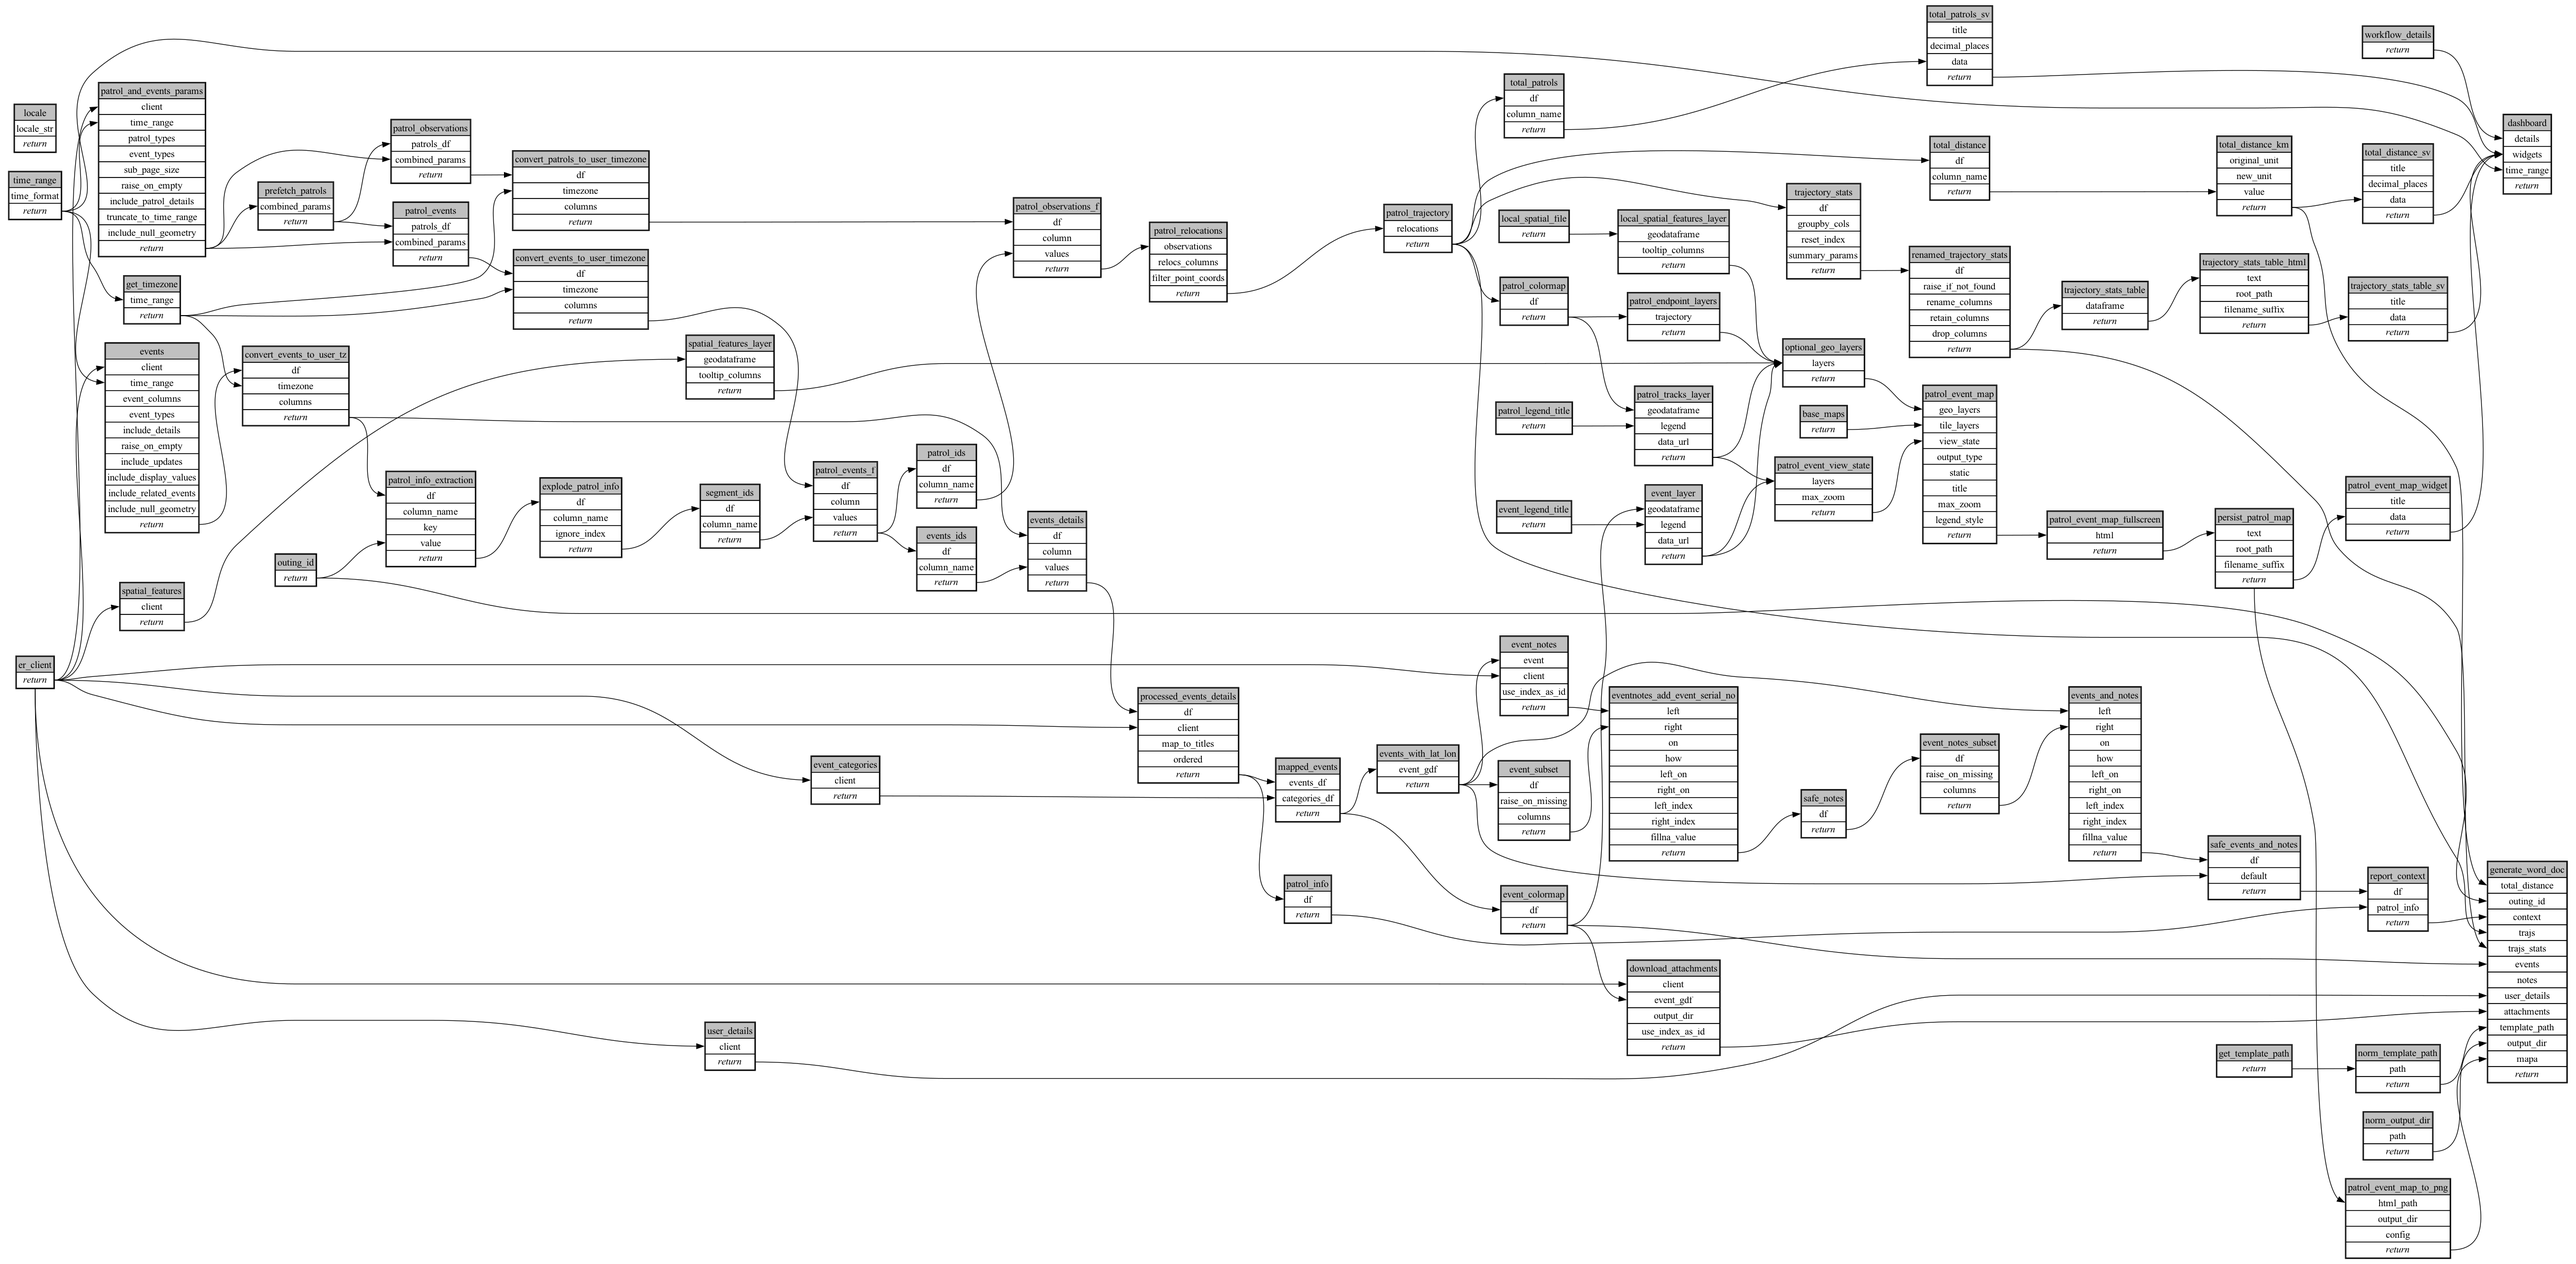
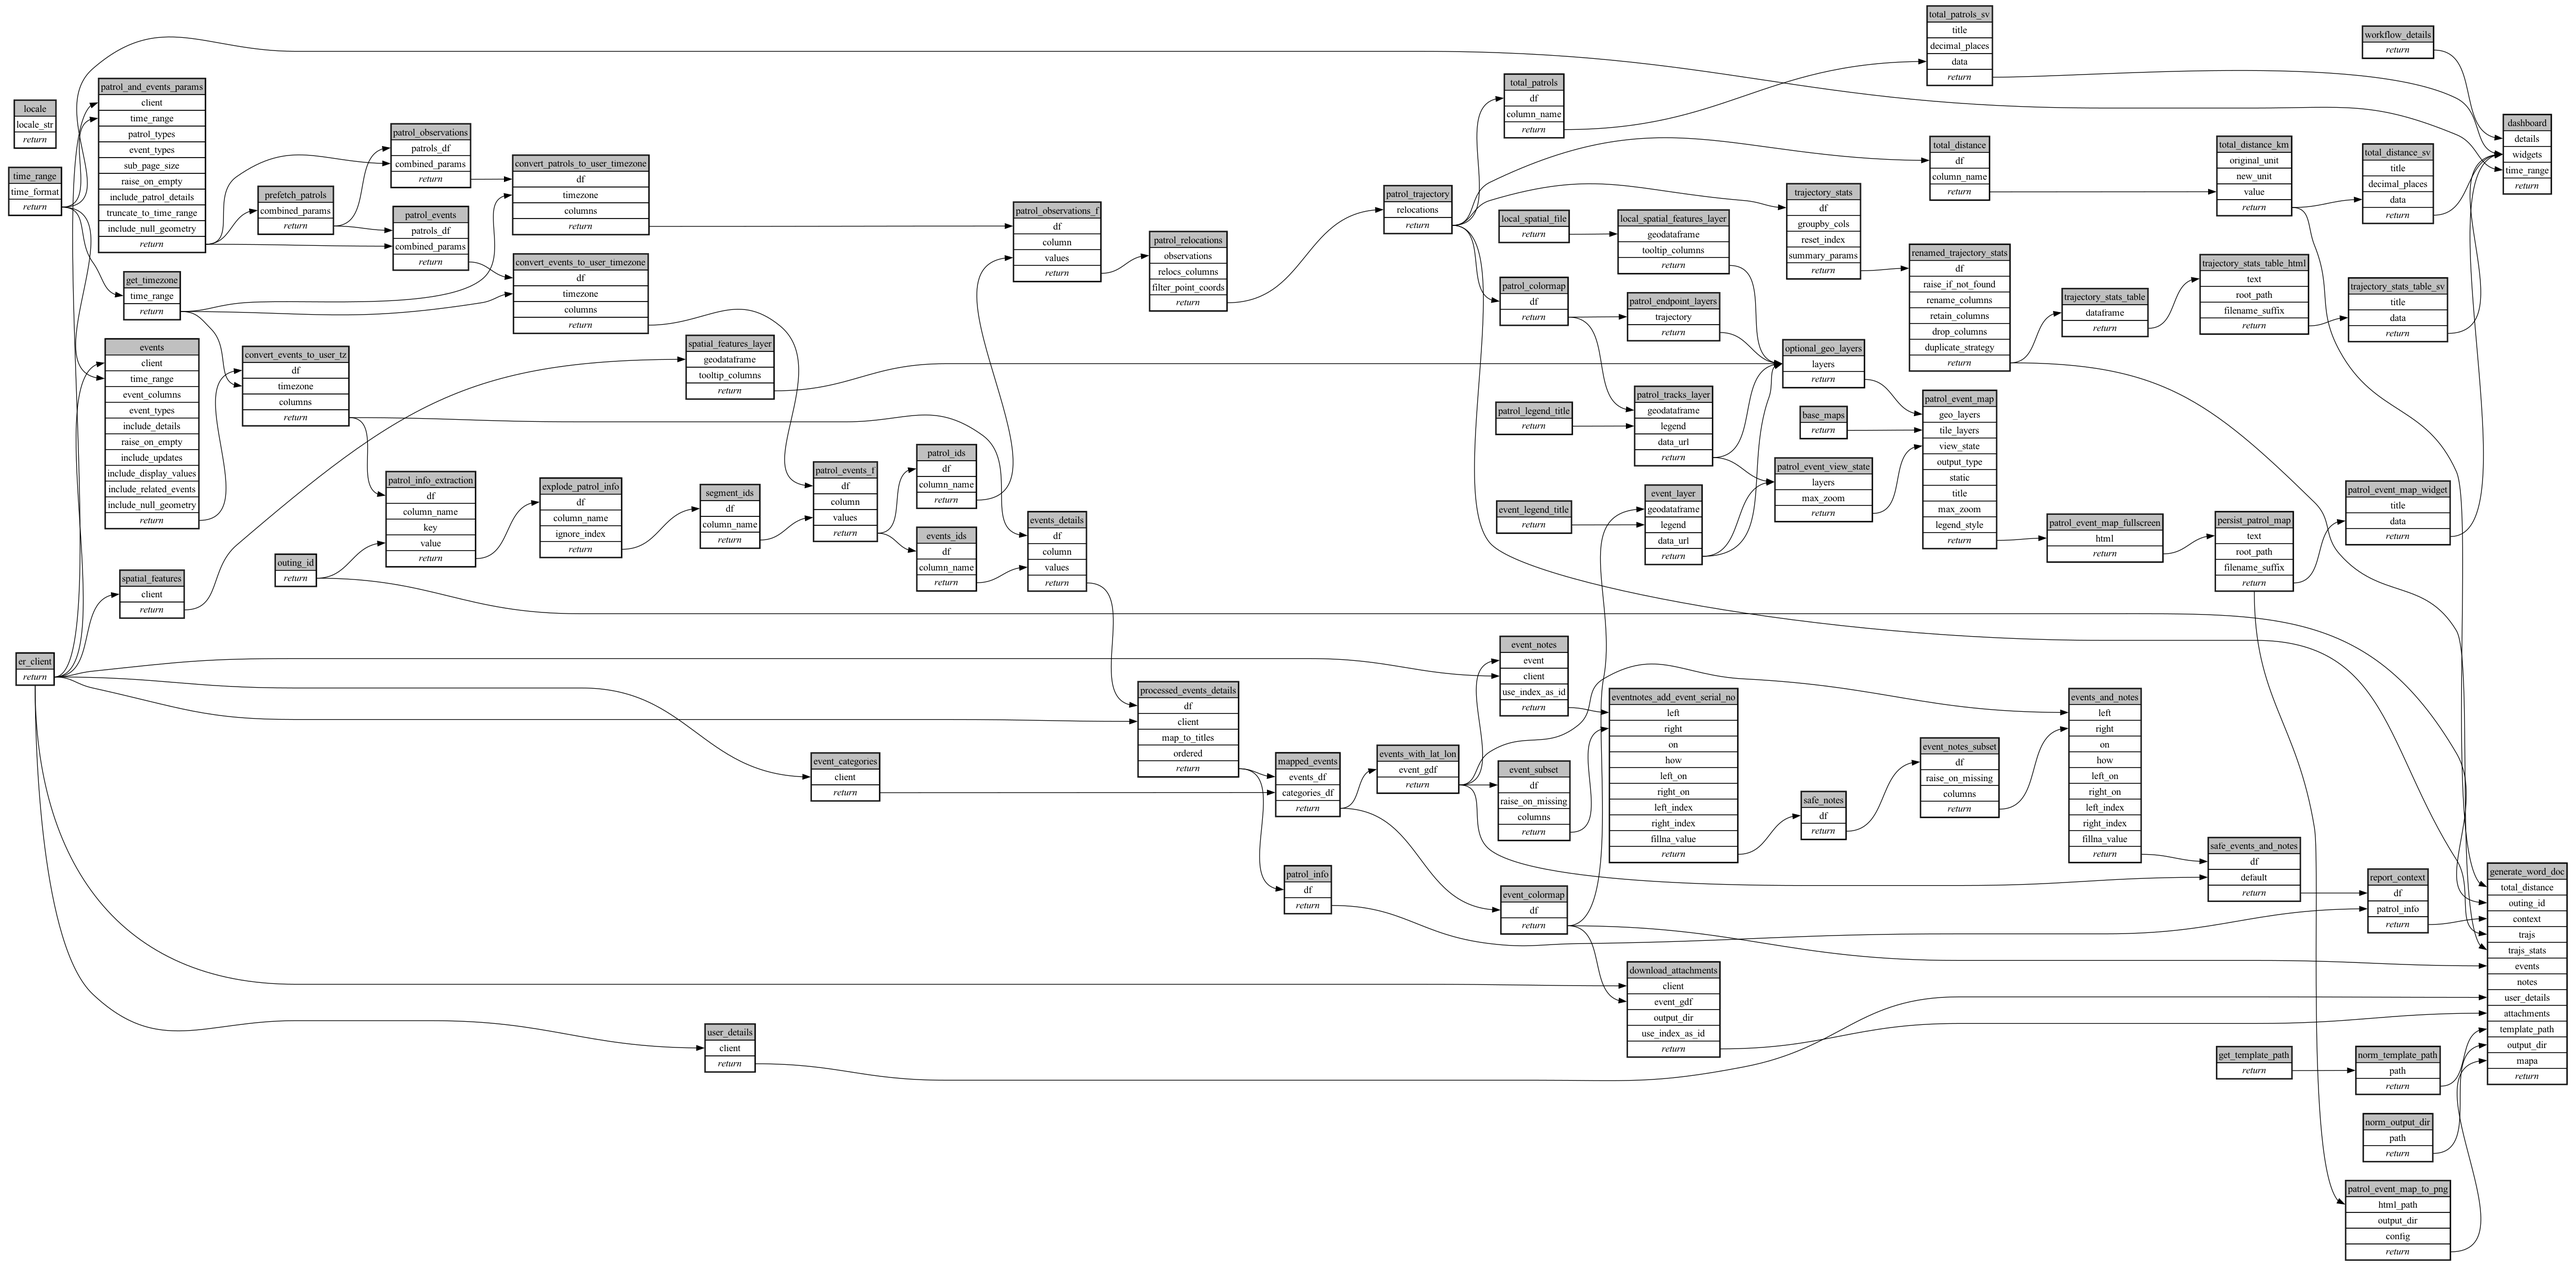
Pin fan_out/duplicate_strategy to task defaults explicitly in spec.yaml

diff --git a/ecoscope-workflows-patrol-event-workflow/ecoscope_workflows_patrol_event_workflow/dags/run_sequential.py b/ecoscope-workflows-patrol-event-workflow/ecoscope_workflows_patrol_event_workflow/dags/run_sequential.py
@@ -748,6 +748,7 @@ def main(params: dict[str, Any], validate_params_schema: bool = True):
             rename_columns={"extra__patrol_serial_number": "ID de Patrulla"},
             retain_columns=None,
             drop_columns=None,
+            duplicate_strategy="suffix",
             **(params.get("renamed_trajectory_stats") or {}),
         )
         .call()

diff --git a/ecoscope-workflows-patrol-event-workflow/ecoscope_workflows_patrol_event_workflow/dags/run_sequential_mock_io.py b/ecoscope-workflows-patrol-event-workflow/ecoscope_workflows_patrol_event_workflow/dags/run_sequential_mock_io.py
@@ -775,6 +775,7 @@ def main(params: dict[str, Any], validate_params_schema: bool = True):
             rename_columns={"extra__patrol_serial_number": "ID de Patrulla"},
             retain_columns=None,
             drop_columns=None,
+            duplicate_strategy="suffix",
             **(params.get("renamed_trajectory_stats") or {}),
         )
         .call()

diff --git a/ecoscope-workflows-patrol-event-workflow/README.md b/ecoscope-workflows-patrol-event-workflow/README.md
@@ -5,8 +5,8 @@
 
 ```yaml
 # fingerprint:
-artifacts_sha256_basic: 9b2e45a3ca366d3c20b7798f7d254d787ea8e0fa6a01f7452701f301027de429
-artifacts_sha256_strict: 7f17cd0aade38b16313da5fc2fab92d65e83d99a46cd7ed14ff34a37c501e738
+artifacts_sha256_basic: 814a79d90f87f2a6c24dda8ff70c73511618defcd1059860efc6976af773aae6
+artifacts_sha256_strict: 4e7d4acd5033dc857256b895bde975079bbacda0b78fc3603f6fa5189d8f0986
 installed_requirements:
 - channel: https://repo.prefix.dev/ecoscope-workflows/
   name: ecoscope-platform
@@ -20,8 +20,8 @@ installed_requirements:
 - channel: https://repo.prefix.dev/ecoscope-workflows-custom/
   name: ecoscope-workflows-ext-apn
   version: {version: ==0.0.30}
-params_sha256: fc133f6f7ad1c05b00f93713050af39067bcfe8cdddd6a781c3a3f02ef8735be
-spec_sha256: ed6cf031a742f7936b3d92bd8bc96021f9333e1b8742efebfa299a85810b309e
+params_sha256: c7e5a5ad61d34c9a9221d3a1bbd5e4497d0c6070036a3816a4837461bc88c7d0
+spec_sha256: 4e098c19569385a9dc767b67c38367d4a55b0a977bd62147e044b3988348f163
 
 ```
 
